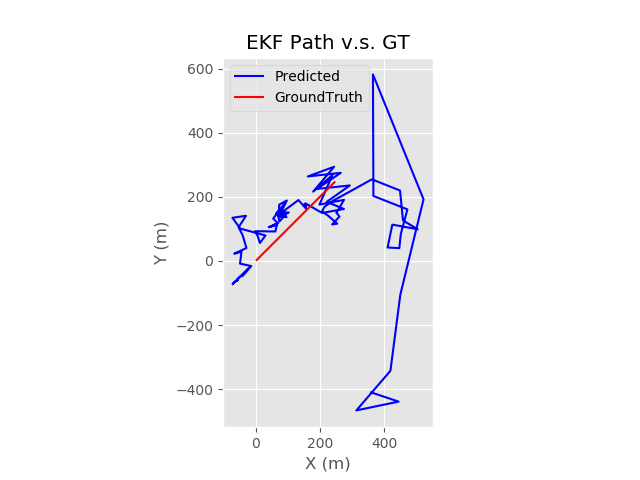
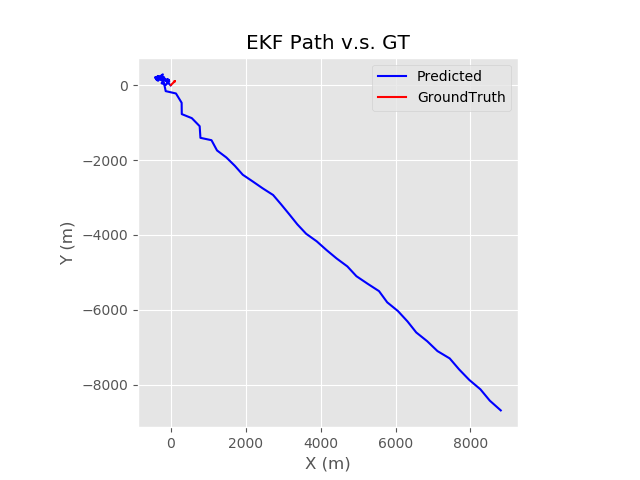
1st traj done in rhb_square1

diff --git a/EKF.py b/EKF.py
@@ -18,7 +18,7 @@ from sympy import Matrix, symbols
 
 
 # LoRa RX1 Coordinates
-R1 = np.array([1., 1., 0])
+R1 = np.array([0., 0., 0.])
 
 
 def HJacobian_at(x):
@@ -74,7 +74,7 @@ class PoseVel(object):
         """
         
         # add some process noise to the system
-        self.vel = self.vel + (1. * randn() + 0.)
+        self.vel = self.vel + (.1 * randn() + 0.)
         self.rot = self.rot + (.1 * randn(3, 1) + 0.)
         self.pos = self.pos + array([self.vel * self.dt * math.cos(self.rot[2, 0]), self.vel * self.dt * math.sin(self.rot[2, 0]), 0])
 
@@ -89,7 +89,7 @@ class PoseVel(object):
 
         # Simulate a decreasing/increasing RSSI
         #rssi = 22 - (28.57*math.log10(np.linalg.norm(self.pos - R1)) + 27.06)
-        rssi = -80 + .6*self.t_idx - 10*np.random.rand()
+        rssi = -80 + .8*self.t_idx - 10*np.random.rand()
         self.t_idx += 1
         #print("Measured RSSI: ", rssi)
 
@@ -101,7 +101,8 @@ class PoseVel(object):
 
 
 class EKF_Fusion():
-    def __init__(self, dt=0.1, dim_x=4, dim_z=3, blit=False):
+    def __init__(self, dt=0.1, dim_x=4, dim_z=3, blit=True, visual=False):
+        self.visual = visual
         # Current Pose handler
         self.pred_transform_t_1 = np.array(
         [[1., 0, 0, 0],
@@ -139,7 +140,8 @@ class EKF_Fusion():
         if self.blit:
             self.ax1background = self.fig2.canvas.copy_from_bbox(self.ax21.bbox)
             self.ax2background = self.fig2.canvas.copy_from_bbox(self.ax22.bbox)
-        plt.show(block=False)
+        if self.visual:
+            plt.show(block=False)
         
         # Creating EKF
         self.dt = dt
@@ -232,8 +234,8 @@ class EKF_Fusion():
         print("Elapsed time of EKF = ", time.time() - start_t)
         
         print("State X:\n", self.my_kf.x)
-        # Trigger EKF
-        #self.rt_show()
+        if self.visual:
+            self.rt_show()
         
         
     def rt_run(self, gap):
@@ -243,6 +245,7 @@ class EKF_Fusion():
             # Get Measurement
             final_pose = self.final_list[-g]
             final_xy = final_pose[:2]
+            #print(final_xy)
             
             # Populate ONE Rssi for a 'gap' of Poses
             final_xy.append(float(self.rssi_list[-1]))
@@ -261,16 +264,17 @@ class EKF_Fusion():
             
             # PREDICTION
             self.my_kf.predict()
+            #print("X-:\n", self.my_kf.x)
             
             # UPDATE
             self.my_kf.update(z, HJacobian_at, hx)
-            #print("X-:\n", self.my_kf.x)
+            
             # Log Posterior State x
             self.xs.append(self.my_kf.x)
             
-            
             #print("X+:\n", self.my_kf.x)
-            print("EKF per round takes %.6f s" % (time.time() - start_t))
+            
+            #print("EKF per round takes %.6f s" % (time.time() - start_t))
         
         
     def sim_run(self):
@@ -325,6 +329,8 @@ class EKF_Fusion():
         self.ax1.set_ylabel("Y (m)")
         self.ax1.legend(loc='best')
         fig1.savefig("sim_example.png")
+        if self.visual:
+            plt.show()
         
         
     def rt_show(self):
@@ -334,14 +340,15 @@ class EKF_Fusion():
         self.handle_scat.set_alpha(.2)
         self.handle_scat_ekf.set_alpha(.2)
         self.handle_arrw.remove()
-        print(self.path[-1])
+        
         #self.handle_arrw_ekf.remove()
-        self.handle_scat = self.ax21.scatter([self.path[-1][0]], [self.path[-1][1]], [self.path[-1][2]], color='b', marker='o', alpha=.9)
+        self.handle_scat = self.ax21.scatter([self.path[-1][0]], [self.path[-1][1]], [self.path[-1][2]], color='b', marker='o', alpha=.9, label='MIO')
         self.handle_arrw = self.ax21.quiver([self.path[-1][0]], [self.path[-1][1]], [self.path[-1][2]],
             self.U, self.V, self.W, color='b', length=1., alpha=.7)
-        self.handle_scat_ekf = self.ax21.scatter([self.xs[-1][0, 0]], [self.xs[-1][1, 0]], [0.], color='r', marker='o', alpha=.9)
+        self.handle_scat_ekf = self.ax21.scatter([self.xs[-1][0, 0]], [self.xs[-1][1, 0]], [0.], color='r', marker='o', alpha=.9, label='LoRa-MIO')
         # Not Attempting to Visual EKF Updated Orientation
         #self.handle_arrw_ekf = self.ax21.quiver([self.my_kf.x[0, 0]], [self.my_kf.x[1, 0]], [self.my_kf.x[2, 0]], self.U_ekf, self.V_ekf, self.W_ekf, color='r', length=1., alpha=.7)
+        
         
         self.ax22.clear()
         self.ax22.set_title("Real-Time LoRa Signal Strength", fontweight='bold')
@@ -369,7 +376,8 @@ class EKF_Fusion():
     
         stop_t = time.time() - start_t
         print("Elapsed time of VISUALISATION = ", stop_t)
-        if stop_t > 0.8:
+        # Constrain PLOT time to avoid msg Overflow
+        if stop_t > 0.85:
             self.fig2.savefig("live_rx.png")
             self.reset_view()
             self.set_view(self.path[-1][0], self.path[-1][1], self.path[-1][2], self.U, self.V, self.W, self.xs[-1][0, 0], self.xs[-1][1, 0], 0.)
@@ -380,14 +388,18 @@ class EKF_Fusion():
         self.ax21.set_xlabel('X Axis (m)')
         self.ax21.set_ylabel('Y Axis (m)')
         self.ax21.set_zlabel('Z Axis (m)')
+        
         '''
         self.ax21.set_xlim(-2, 2)
         self.ax21.set_ylim(-2, 2)
         self.ax21.set_zlim(-2, 2)
         '''
-        self.handle_scat = self.ax21.scatter(x, y, z, color='b', marker='o', alpha=.9)
-        self.handle_arrw = self.ax21.quiver(x, y, z, u, v, w, color='b', length=1., alpha=.9)
-        self.handle_scat_ekf = self.ax21.scatter(X, Y, Z, color='r', marker='o', alpha=.9)
+        quiv_len = np.sqrt(u**2 + v**2 + w**2)
+        self.handle_scat = self.ax21.scatter(x, y, z, color='b', marker='o', alpha=.9, label='MIO')
+        self.handle_arrw = self.ax21.quiver(x, y, z, u, v, w, color='b', length=quiv_len, alpha=.9)
+        self.handle_scat_ekf = self.ax21.scatter(X, Y, Z, color='r', marker='o', alpha=.9, label='LoRa-MIO')
+        self.ax21.legend(loc='upper left')
+        
         
     def reset_view(self):
         self.rssi_list = []
@@ -397,7 +409,7 @@ class EKF_Fusion():
 if __name__=="__main__":
     
     dt = 0.1
-    ekf = EKF_Fusion(dt=dt, blit=False)
+    ekf = EKF_Fusion(dt=dt)
     
     T = 10.
     for i in range(int(T / dt)):
@@ -405,6 +417,6 @@ if __name__=="__main__":
         time.sleep(.1)
         
     ekf.sim_show()
-    plt.show()
+    
 
 

diff --git a/rx_lora.py b/rx_lora.py
@@ -13,7 +13,7 @@ import math
 from EKF import EKF_Fusion
 
 
-ekf = EKF_Fusion(dt=0.1, blit=False)
+ekf = EKF_Fusion(dt=0.1, visual=True)
 
 def UtcNow():
     now = datetime.datetime.utcnow()
